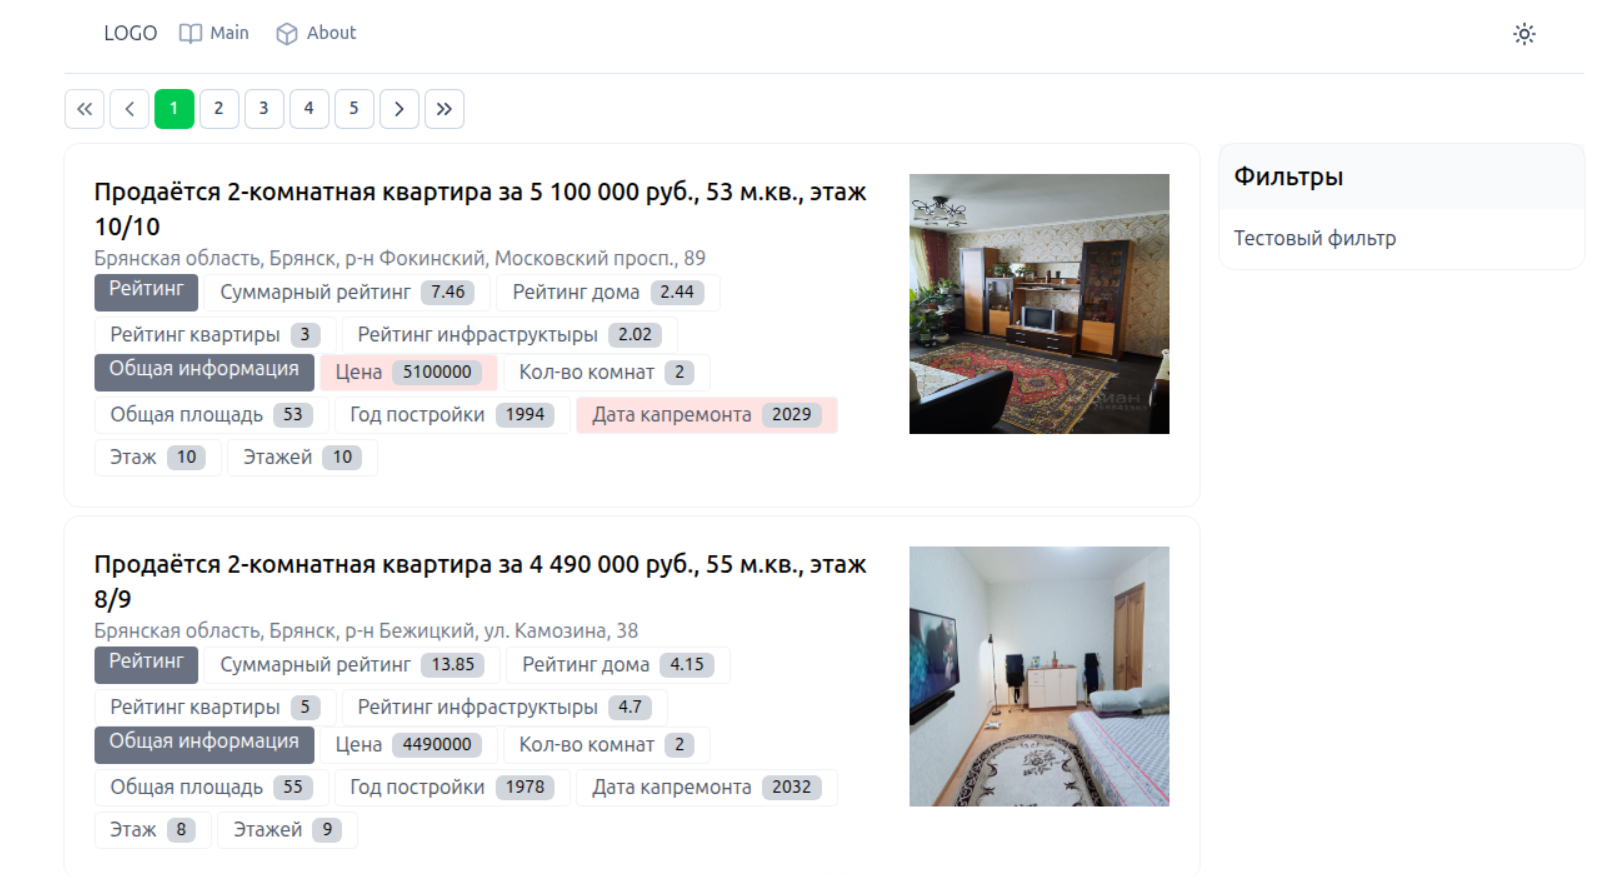
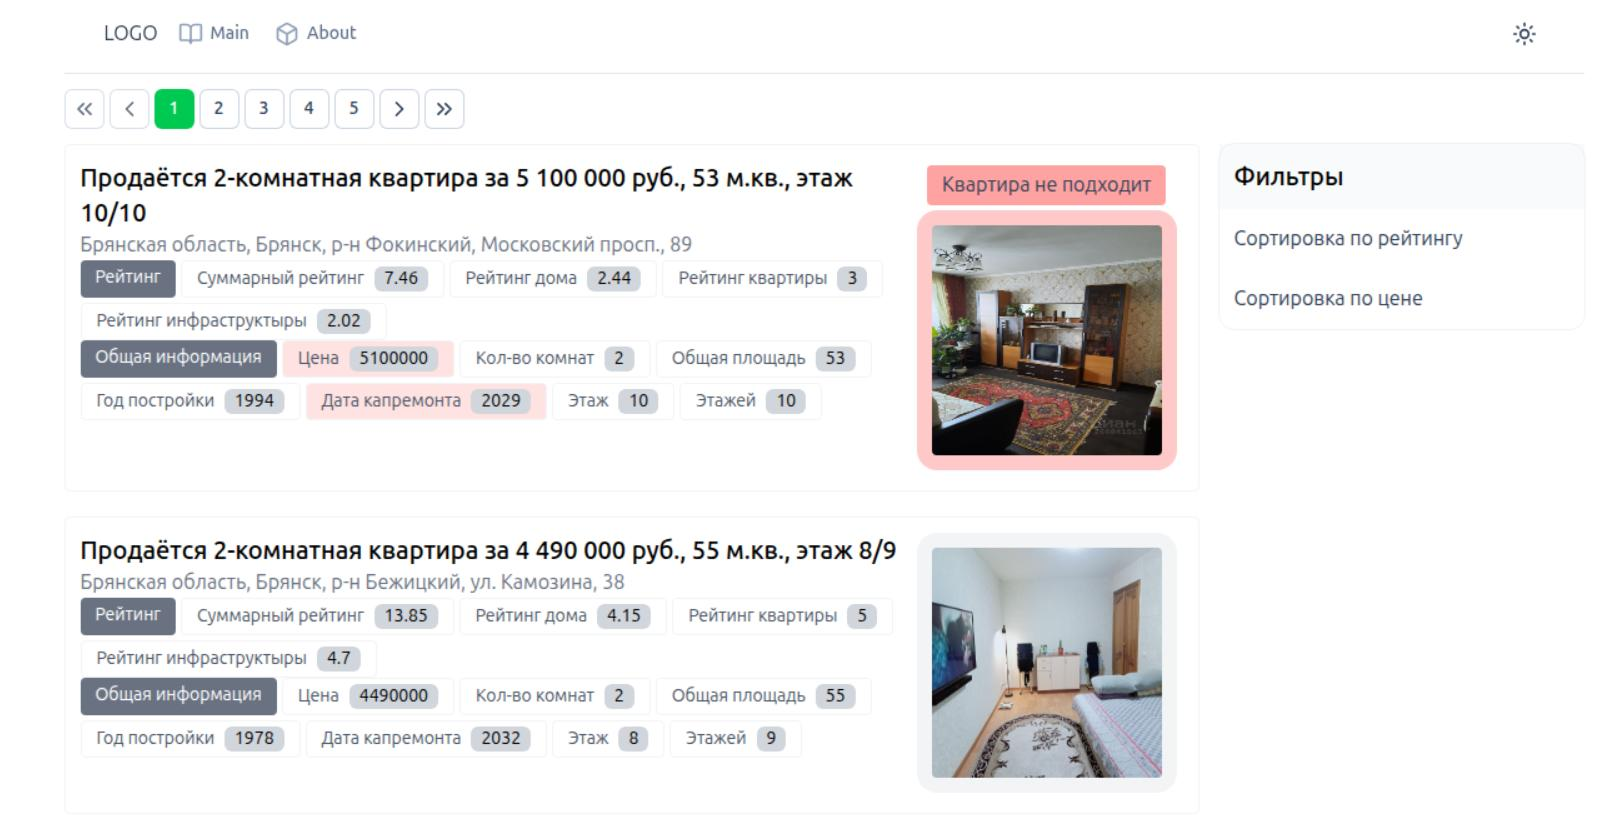
tailwinds fix

diff --git a/frontend/app/components/AppFlatBlock.vue b/frontend/app/components/AppFlatBlock.vue
@@ -1,88 +1,99 @@
 <script setup>
 const props = defineProps(['item'])
+let image_danger_class = ref("bg-gray-100")
+let isUnsuitable = ref(false)
 
-const fields = {
-   "price": "Цена",
-   "address": "Адрес",
-   "kolichestvo_komnat": "Кол-во комнат",
-   "obshchaya_ploshchad": "Общая площадь",
-   "god_postroyki": "Год постройки",
-   "kapremont_date": "Дата капремонта",
-   "etazh_val": "Этаж",
-   "etazh_count": "Этажей",
+const fields_general = {
+    "price": "Цена",
+    // "address": "Адрес",
+    "kolichestvo_komnat": "Кол-во комнат",
+    "obshchaya_ploshchad": "Общая площадь",
+    "god_postroyki": "Год постройки",
+    "kapremont_date": "Дата капремонта",
+    "etazh_val": "Этаж",
+    "etazh_count": "Этажей",
 }
-const kapremontColor = computed(() => {
-   let cls = ""
-   // console.log(props["item"]["kapremont_date"])
-   if ((props["item"]["kapremont_date"] - 2025) <= 5) {
-      cls = "bg-danger-subtle"
-   }
-   return cls
-})
+const fields_ratings = {
+    "rating_all": "Суммарный рейтинг",
+    "rating_house": "Рейтинг дома",
+    "rating_flat": "Рейтинг квартиры",
+    "rating_flat": "Рейтинг квартиры",
+    "rating_infrastructure": "Рейтинг инфраструктыры",
+}
 
+// const chackIsUnsutable = computed(() => {
+//     if (index === "kapremont_date" && (props["item"]["kapremont_date"] - 2025) <= 5) {
+//         cls = "bg-black"
+//     }
+//     return cls
+// })
+
+function kapremontColor(index) {
+    let cls = ""
+    if (index === "kapremont_date" && (props["item"]["kapremont_date"] - 2025) <= 5) {
+        cls = "bg-red-100"
+        image_danger_class = "bg-red-200"
+        isUnsuitable = true
+    }
+    return cls
+}
+
+function priceColor(index) {
+    let cls = ""
+    if (index === "price" && props["item"]["price"] > 5000000) {
+        cls = "bg-red-100"
+        image_danger_class = "bg-red-200"
+        isUnsuitable = true
+    }
+    return cls
+}
+
+
+const classObject = reactive({
+  'bg-black': true
+})
 </script>
 
 
 <template>
-   <UPageCard 
-      :title=item.title
-      :description=item.address
-      orientation="horizontal">
+    <div
+        class="mx-auto flex flex-row justify-between items-start mb-2 gap-x-4 rounded-xl bg-white p-6 outline outline-black/5 dark:bg-slate-800 dark:shadow-none dark:-outline-offset-1 dark:outline-white/10">
 
-      <img v-bind:src="'/public/images/' + item['id'] + '/main.jpg'" class="w-50" alt="...">
-      <!-- <img src="/tailwindcss-v4.svg" alt="Tailwind CSS" class="w-full" /> -->
-   </UPageCard>
+        <div class="">
+            <div class="text-xl font-medium text-black dark:text-white">{{ item.title }}</div>
+            <p class="text-gray-500 dark:text-gray-400">{{ item.address }}</p>
+            <!-- Ratings -->
+            <div class="flex flex-wrap gap-1">
+                <div class="flat_items_label">Рейтинг</div>
+                <div class="flat_items_wrapper" v-for="(value, index) in fields_ratings">
+                    <div class="flat_items_text">{{ value }}</div>
+                    <div class="flat_items_value">
+                        {{ item[index] }}
+                    </div>
+                </div>
+            </div>
+            <!-- General -->
+            <div class="flex flex-wrap gap-1">
+                <div class="flat_items_label">Общая информация</div>
+                <div class="flat_items_wrapper" :class="kapremontColor(index), priceColor(index)" v-for="(value, index) in fields_general">
+                    <div class="flat_items_text">{{ value }}</div>
+                    <div class="flat_items_value">
+                        {{ item[index] }}
+                    </div>
+                </div>
+            </div>
+        </div>
+        <div class="">
+            <div v-if="isUnsuitable" class="block"></div>
+            <img class="size-52 shrink-0 p-3 rounded-2xl" :class="image_danger_class" v-bind:src="'/public/images/' + item['id'] + '/main.jpg'" />
+        </div>
+        
+    </div>
 </template>
 
 <!-- <template>
-   <div class="card mb-3">
-      <div class="row g-0">
-         <div class="col-md-9">
-            <div class="card-body">
-               <h5 class="card-title"><span class="badge text-bg-secondary">{{ item["id"] }}</span> {{ item["title"] }}
-               </h5>
-               <h5 class="card-title">{{ item["address"] }}</h5>
-               <p class="card-text"></p>
+    <UPageCard :title=item.title :description=item.address orientation="horizontal">
 
-               <div class="d-block">
-                  <div class="d-inline-flex p-2 m-1 border">
-                     {{ fields["price"] }}
-                     <span class="badge text-bg-light">{{ item["price"] }}</span>
-                  </div>
-                  <div class="d-inline-flex p-2 m-1 border">
-                     {{ fields["god_postroyki"] }}
-                     <span class="badge text-bg-light">{{ item["god_postroyki"] }}</span>
-                  </div>
-                  <div class="d-inline-flex p-2 m-1 border">
-                     {{ fields["kolichestvo_komnat"] }}
-                     <span class="badge text-bg-light">{{ item["kolichestvo_komnat"] }}</span>
-                  </div>
-                  <div class="d-inline-flex p-2 m-1 border">
-                     {{ fields["obshchaya_ploshchad"] }}
-                     <span class="badge text-bg-light">{{ item["obshchaya_ploshchad"] }}</span>
-                  </div>
-                  <div class="d-inline-flex p-2 m-1 border" :class="kapremontColor">
-                     {{ fields["kapremont_date"] }}
-                     <span class="badge text-bg-light" >{{ item["kapremont_date"] }}</span>
-                  </div>
-                  <div class="d-inline-flex p-2 m-1 border">
-                     {{ fields["etazh_val"] }}
-                     <span class="badge text-bg-light">{{ item["etazh_val"] }}</span>
-                  </div>
-                  <div class="d-inline-flex p-2 m-1 border">
-                     {{ fields["etazh_count"] }}
-                     <span class="badge text-bg-light">{{ item["etazh_count"] }}</span>
-                  </div>
-               </div>
-
-
-
-            </div>
-         </div>
-         <div class="col-md-3 d-flex justify-content-end">
-            <img v-bind:src="'/public/images/' + item['id'] + '/main.jpg'" class="img-fluid rounded-end" width="250"
-               alt="...">
-         </div>
-      </div>
-   </div>
+        <img v-bind:src="'/public/images/' + item['id'] + '/main.jpg'" class="w-50" alt="...">
+    </UPageCard>
 </template> -->

diff --git a/frontend/app/components/AppFlatBlock2.vue b/frontend/app/components/AppFlatBlock2.vue
@@ -1,5 +1,7 @@
 <script setup>
 const props = defineProps(['item'])
+let image_danger_class = ref("bg-gray-100")
+let isUnsuitable = ref(false)
 
 const fields_general = {
     "price": "Цена",
@@ -18,18 +20,20 @@ const fields_ratings = {
     "rating_flat": "Рейтинг квартиры",
     "rating_infrastructure": "Рейтинг инфраструктыры",
 }
-// const kapremontColor = computed((index) => {
-//     let cls = ""
-//     // console.log(props["item"]["kapremont_date"])
+
+// const chackIsUnsutable = computed(() => {
 //     if (index === "kapremont_date" && (props["item"]["kapremont_date"] - 2025) <= 5) {
 //         cls = "bg-black"
 //     }
 //     return cls
 // })
+
 function kapremontColor(index) {
     let cls = ""
     if (index === "kapremont_date" && (props["item"]["kapremont_date"] - 2025) <= 5) {
         cls = "bg-red-100"
+        image_danger_class = "bg-red-200"
+        isUnsuitable = true
     }
     return cls
 }
@@ -38,6 +42,8 @@ function priceColor(index) {
     let cls = ""
     if (index === "price" && props["item"]["price"] > 5000000) {
         cls = "bg-red-100"
+        image_danger_class = "bg-red-200"
+        isUnsuitable = true
     }
     return cls
 }
@@ -50,10 +56,9 @@ const classObject = reactive({
 
 
 <template>
-    <div
-        class="mx-auto flex flex-row justify-between items-start mb-2 gap-x-4 rounded-xl bg-white p-6 outline outline-black/5 dark:bg-slate-800 dark:shadow-none dark:-outline-offset-1 dark:outline-white/10">
+    <div class="grid grid-cols-12 gap-1 border border-gray-100 p-3 mb-5 rounded">
 
-        <div class="">
+        <div class="col-span-9">
             <div class="text-xl font-medium text-black dark:text-white">{{ item.title }}</div>
             <p class="text-gray-500 dark:text-gray-400">{{ item.address }}</p>
             <!-- Ratings -->
@@ -77,8 +82,11 @@ const classObject = reactive({
                 </div>
             </div>
         </div>
-
-        <img class="size-52 shrink-0" v-bind:src="'/public/images/' + item['id'] + '/main.jpg'" />
+        <div class="col-span-3 justify-items-center">
+            <div v-if="isUnsuitable" class="block bg-red-300 p-1 m-1 px-3 rounded">Квартира не подходит</div>
+            <img class="size-52 shrink-0 p-3 rounded-2xl mb-1" :class="image_danger_class" v-bind:src="'/public/images/' + item['id'] + '/main.jpg'" />
+        </div>
+        
     </div>
 </template>
 

diff --git a/frontend/app/components/AppRightSide.vue b/frontend/app/components/AppRightSide.vue
@@ -23,7 +23,10 @@ function isChecked(event) {
     <div class="flex flex-col rounded-xl bg-white outline outline-black/5  dark:bg-slate-800 dark:shadow-none dark:-outline-offset-1 dark:outline-white/10">
         <div class="block bg-gray-50 p-3 text-xl font-medium text-black dark:text-white dark:bg-slate-800 dark:shadow-none dark:-outline-offset-1 dark:outline-white/10">Фильтры</div>
         <div class="block p-3">
-            <a href="#" @click="$emit('filters', 'pizza1')">Тестовый фильтр</a>
+            <a href="#" @click="$emit('filters', 'pizza1')">Сортировка по рейтингу</a>
+        </div>
+        <div class="block p-3">
+            <a href="#" @click="$emit('filters', 'pizza1')">Сортировка по цене</a>
         </div>
     </div>
     <!-- <div class="card">

diff --git a/frontend/app/assets/css/main.css b/frontend/app/assets/css/main.css
@@ -1,15 +1,15 @@
 @import "tailwindcss";
 @import "@nuxt/ui";
 
-.flat_items_label {
-    @apply bg-gray-500 text-white px-3  border-gray-100 rounded-sm;
-}
 .flat_items_wrapper {
-   @apply flex justify-between text-gray-600 px-3 border border-gray-100 rounded-sm;
+   @apply flex justify-between text-gray-600 px-3 border border-gray-100 rounded-sm text-sm py-1;
+}
+.flat_items_label {
+    @apply flex bg-gray-500 text-white px-3 py-1 border-gray-100 rounded-sm text-sm;
 }
 .flat_items_text {
-    @apply my-0.5 mr-1
+    @apply mr-1
 }
 .flat_items_value {
-    @apply bg-gray-300 text-black text-sm my-1 ml-1 px-2 rounded-md
+    @apply bg-gray-300 text-black text-sm ml-1 px-2 rounded-md
 }

diff --git a/readme.md b/readme.md
@@ -19,6 +19,8 @@
 5. PostgreSQL
 6. Adminer
 7. Nginx
+8. Tailwindcss
+
 ## Общая техническая схема
 ![img_1](settings/files/shema1.jpg)
 
